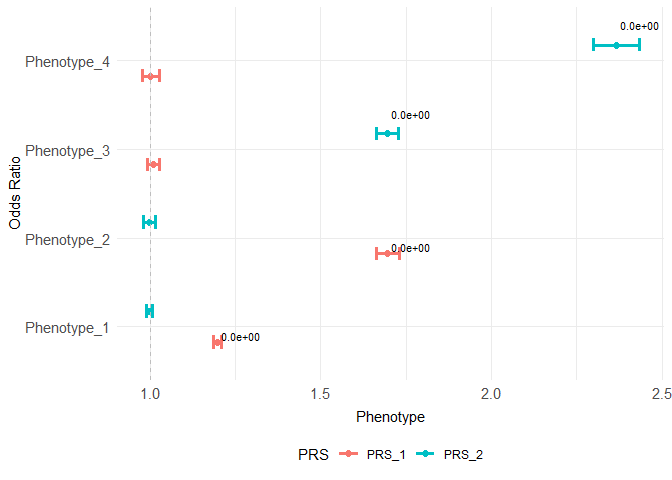
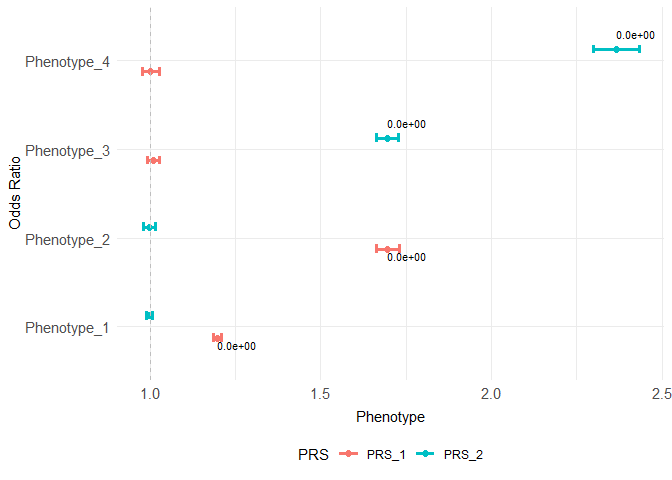
fix: orplot and decileplotvisual ; chore: update README

diff --git a/README.md b/README.md
@@ -31,6 +31,8 @@ devtools::install_github("VP-biostat/comorbidPRS")
 
 ## Example
 
+### Building an Association Table
+
 This is a basic example which shows you how to do basic association with
 the example dataset:
 
@@ -44,10 +46,6 @@ dataset <- comorbidExample
 result_1 <- assoc(dataset, prs_col = "PRS_1", phenotype_col = "Phenotype_1")
 ```
 
-``` r
-knitr::kable(result_1)
-```
-
 | PRS   | Phenotype   | Covar | N_cases | N_controls |     N |       OR |        SE | lower_CI | upper_CI | P_value |
 |:------|:------------|:------|:--------|:-----------|------:|---------:|----------:|---------:|---------:|--------:|
 | PRS_1 | Phenotype_1 | NA    | NA      | NA         | 50000 | 1.197197 | 0.0044723 | 1.186749 | 1.207737 |       0 |
@@ -56,10 +54,6 @@ knitr::kable(result_1)
 #do multiple associations
 assoc <- expand.grid(c("PRS_1", "PRS_2"), c("Phenotype_1", "Phenotype_2", "Phenotype_3", "Phenotype_4"))
 result_2 <- multiassoc(df = dataset, assoc_table = assoc, covar = c("Age", "Sex", "Covariate"))
-```
-
-``` r
-knitr::kable(result_2)
 ```
 
 | PRS   | Phenotype   | Covar             | N_cases | N_controls |     N |        OR |        SE |  lower_CI | upper_CI |   P_value |
@@ -73,13 +67,7 @@ knitr::kable(result_2)
 | PRS_1 | Phenotype_4 | Age+Sex+Covariate |      NA |         NA | 50000 | 1.0019309 | 0.0127126 | 0.9772745 | 1.027210 | 0.8793929 |
 | PRS_2 | Phenotype_4 | Age+Sex+Covariate |      NA |         NA | 50000 | 2.3658259 | 0.0146268 | 2.2991633 | 2.434845 | 0.0000000 |
 
-Examples of plot:
-
-``` r
-decileboxplot(dataset, prs_col = "PRS_1", phenotype_col = "Phenotype_1")
-```
-
-<img src="man/figures/README-decileplot-1.png" width="100%" />
+### Examples of plot
 
 ``` r
 densityplot(dataset, prs_col = "PRS_1", phenotype_col = "Phenotype_2")
@@ -88,27 +76,28 @@ densityplot(dataset, prs_col = "PRS_1", phenotype_col = "Phenotype_2")
 <img src="man/figures/README-densityplot-1.png" width="100%" />
 
 ``` r
-centileplot(dataset, prs_col = "PRS_2", phenotype_col = "Phenotype_3")
-```
-
-<img src="man/figures/README-centileplot-1.png" width="100%" />
-
-``` r
 #show multiple associations in a plot
 orplot(score_table = result_2)
 ```
 
 <img src="man/figures/README-orplot-1.png" width="100%" />
 
+``` r
+centileplot(dataset, prs_col = "PRS_2", phenotype_col = "Phenotype_3")
+```
+
+<img src="man/figures/README-centileplot-1.png" width="100%" />
+
+``` r
+decileboxplot(dataset, prs_col = "PRS_1", phenotype_col = "Phenotype_1")
+```
+
+<img src="man/figures/README-decileplot-1.png" width="100%" />
+
 ## Citation
 
 If you use comorbidPRS in any published work, please cite the following
 manuscript:
-
-    #> Warning in citation("comorbidPRS"): no date field in DESCRIPTION file of package
-    #> 'comorbidPRS'
-    #> Warning in citation("comorbidPRS"): could not determine year for 'comorbidPRS'
-    #> from package DESCRIPTION file
 
 <p>
 Pascat V (????). <em>comorbidPRS: Assessing the shared predisposition
